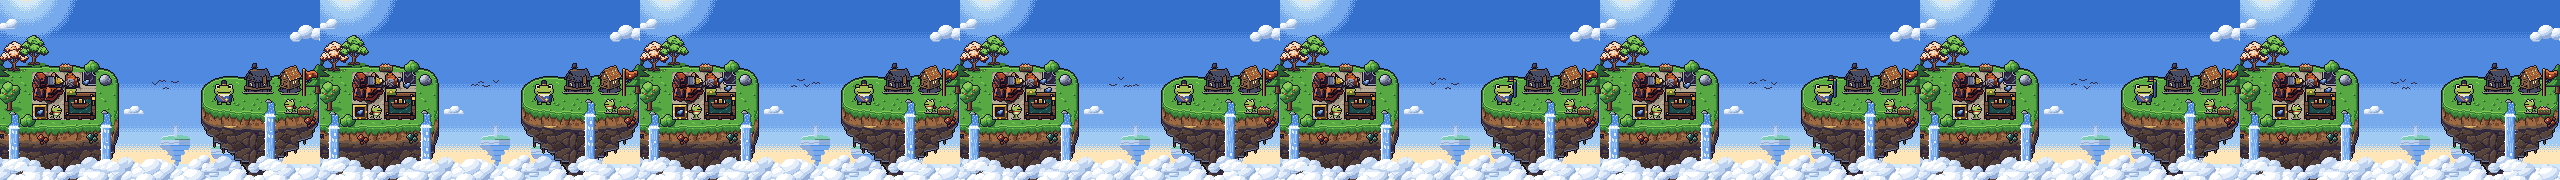
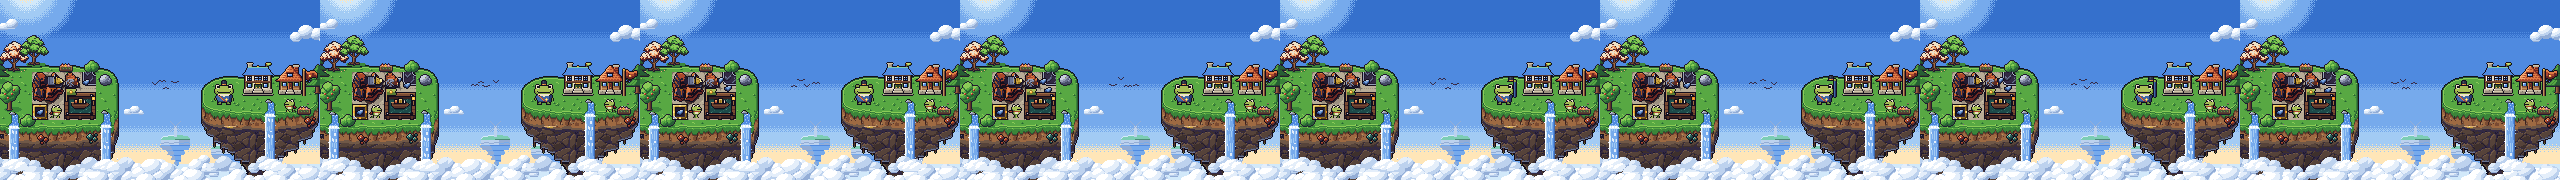
Title scene: the town's island uses the re-seated daylight houses as they are

diff --git a/pixel-art/title/build.py b/pixel-art/title/build.py
@@ -80,6 +80,9 @@ def reseat(img):
     img = img.copy()
     px = img.load()
     w, h = img.size
+    # the town's own sprites are re-seated now (pixel-art/town, footings drawn): use them as they are
+    if not any(px[x, y][3] and px[x, y][:3] in WATER for y in range(h) for x in range(w)):
+        return img
     for y in range(h):
         for x in range(w):
             if px[x, y][3] and px[x, y][:3] in WATER:
